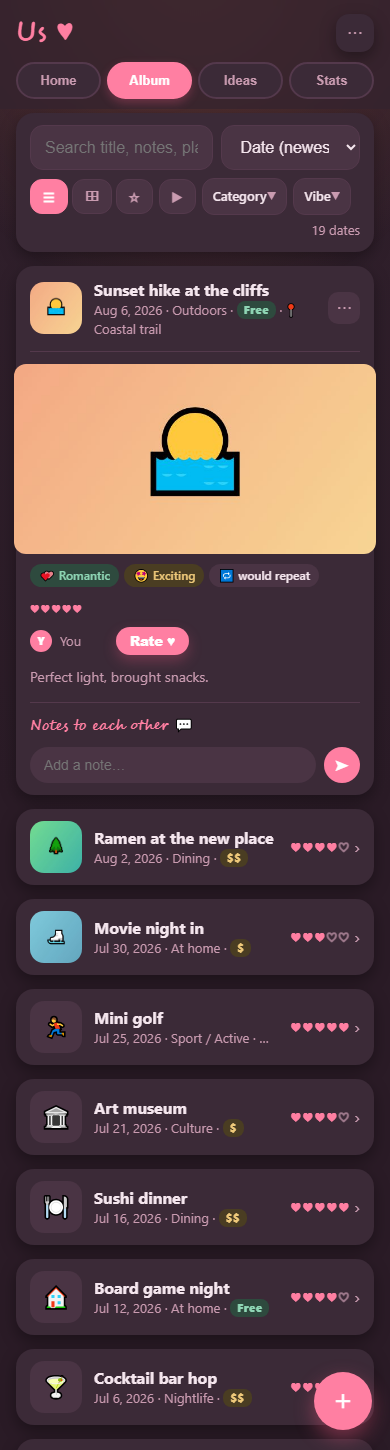
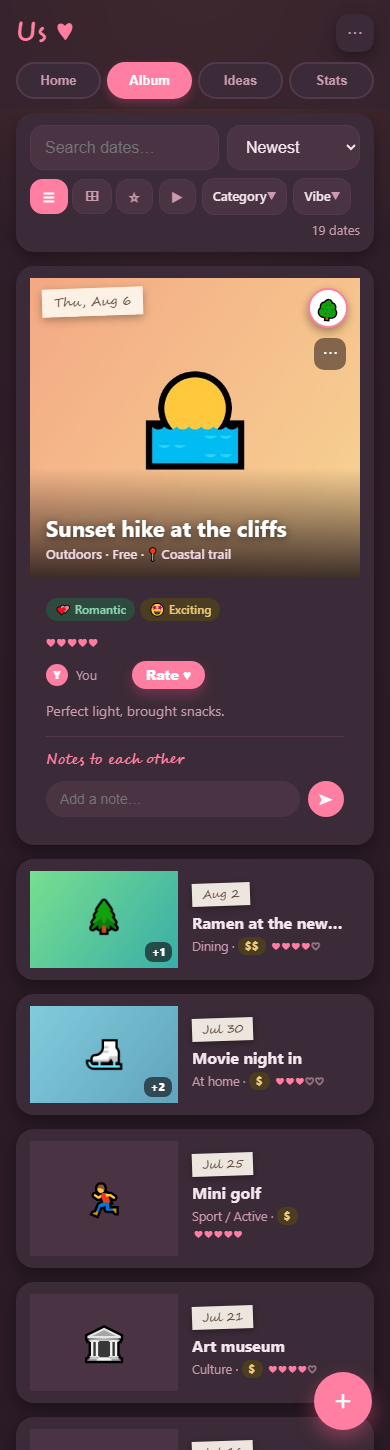
Album redesign: photo-ledge rows + hero/film-strip expanded view
Collapsed rows: 148px edge-bleed photo slab, tape date sticker, inline
hearts (replaces 52px thumb + score column + chevron). Expanded: 300px
full-bleed hero with overlaid title/meta/kebab, 72px film strip swaps
the hero, tap hero for lightbox, tap title to collapse. Dropped the
derived would-repeat chip. Mock: design/album-cards.html (taste-critic
revised); smoke assertions updated to guard the new structure.

diff --git a/design/album-cards.html b/design/album-cards.html
@@ -1,0 +1,172 @@
+<!DOCTYPE html>
+<html>
+<head>
+<meta charset="utf-8"/>
+<title>Album redesign — photo-ledge rows + hero/film-strip expanded (realistic)</title>
+<style>
+:root {
+  --bg: #2a1b26; --bg-soft: #33222e; --card: #3b2a37; --card-2: #4a3444;
+  --line: #54394c; --text: #f5e6ee; --muted: #c99bb0;
+  --accent: #ff7fa2; --accent-2: #ff9fba;
+  --good: #7ed3ab; --warn: #eec97a; --bad: #f08a8a;
+  --mint-bg: #2e4a3e; --mint-fg: #8fd6b5; --butter-bg: #4a3d22; --butter-fg: #eec97a;
+  --radius: 18px; --shadow: 0 6px 16px rgba(0,0,0,.35);
+  --cursive: "Segoe Script", "Comic Sans MS", cursive;
+}
+* { box-sizing: border-box; }
+body {
+  margin: 0; padding: 24px; background: #1a1017; color: var(--text);
+  font: 16px/1.45 -apple-system, BlinkMacSystemFont, "Segoe UI", Roboto, sans-serif;
+  display: flex; gap: 28px; flex-wrap: wrap; align-items: flex-start;
+}
+.frame { width: 390px; flex: none; }
+.frame-label { font: 700 15px var(--cursive); color: var(--accent); margin: 0 0 10px 4px; }
+.phone { background: radial-gradient(120% 60% at 50% 0%, var(--bg-soft), var(--bg)); border-radius: 28px; padding: 16px; border: 1px solid #000; }
+.card { background: var(--card); border-radius: var(--radius); padding: 16px; box-shadow: var(--shadow); margin-bottom: 14px; position: relative; }
+.hearts { color: var(--accent); font-weight: 800; letter-spacing: 1px; white-space: nowrap; }
+.hearts .off { color: var(--muted); opacity: .7; }
+.chev { color: var(--muted); font-size: 18px; flex: none; }
+.tier-pill { display: inline-block; background: var(--butter-bg); color: var(--butter-fg); font-size: 11px; font-weight: 800; padding: 1px 7px; border-radius: 8px; vertical-align: 1px; letter-spacing: .5px; }
+.tier-pill.free { background: var(--mint-bg); color: var(--mint-fg); }
+img.cover { position: absolute; inset: 0; width: 100%; height: 100%; object-fit: cover; }
+
+/* ---- search/filter bar (context, as shipped) ---- */
+.hist-bar { padding: 10px 12px; display: flex; gap: 8px; align-items: center; }
+.h-search { flex: 1; background: var(--card-2); border: 1px solid var(--line); border-radius: 12px; padding: 8px 12px; color: var(--muted); font-size: 14px; }
+.seg { background: var(--card-2); border: 1px solid var(--line); border-radius: 10px; color: var(--muted); font-size: 14px; padding: 6px 10px; }
+.seg.on { background: var(--accent); color: #fff; border-color: var(--accent); }
+
+/* ---- Option A: photo-ledge rows ---- */
+.ledge { padding: 0; overflow: hidden; display: flex; align-items: stretch; min-height: 96px; cursor: pointer; }
+.ledge .shot { width: 148px; flex: none; position: relative; overflow: hidden; }
+.ledge .shot .count { position: absolute; right: 6px; bottom: 6px; background: rgba(15,6,12,.6); color: #fff; font-size: 11px; font-weight: 800; padding: 2px 7px; border-radius: 8px; z-index: 2; }
+.ledge .shot .cat-emoji { display: grid; place-items: center; height: 100%; font-size: 34px; background: var(--card-2); }
+.ledge .body { flex: 1; min-width: 0; padding: 12px 16px 12px 14px; display: flex; flex-direction: column; justify-content: center; gap: 3px; }
+.ledge .tape { align-self: flex-start; background: rgba(253,246,238,.92); padding: 2px 10px; transform: rotate(-2deg); font: 400 11.5px var(--cursive); color: #5a4636; box-shadow: 0 2px 6px rgba(0,0,0,.3); margin-bottom: 2px; }
+.ledge h4 { margin: 0; font-size: 16px; white-space: nowrap; overflow: hidden; text-overflow: ellipsis; }
+.ledge .sub { color: var(--muted); font-size: 12.5px; }
+.ledge .sub .hearts { font-size: 13px; margin-left: 2px; }
+
+/* ---- Expanded: tall hero + film strip ---- */
+.xcard { padding: 0; overflow: hidden; }
+.xhero { height: 300px; position: relative; overflow: hidden; }
+.xhero::after { content: ""; position: absolute; left: 0; right: 0; bottom: 0; height: 110px; background: linear-gradient(180deg, transparent, rgba(15,6,12,.8)); }
+.xhero .tape { position: absolute; top: 12px; left: 14px; transform: rotate(-2deg); background: rgba(253,246,238,.92); padding: 4px 12px; box-shadow: 0 3px 8px rgba(0,0,0,.3); font: 400 12.5px var(--cursive); color: #5a4636; z-index: 2; }
+.xhero .cat { position: absolute; top: 12px; right: 14px; transform: rotate(6deg); background: #fff; width: 40px; height: 40px; border-radius: 50%; display: grid; place-items: center; font-size: 20px; border: 2.5px solid var(--accent); box-shadow: 0 4px 10px rgba(0,0,0,.35); z-index: 2; }
+.xhero .kebab { position: absolute; top: 60px; right: 14px; z-index: 2; background: rgba(15,6,12,.5); color: #fff; border: none; width: 32px; height: 32px; border-radius: 50%; font-size: 16px; }
+.xhero .title { position: absolute; left: 16px; right: 16px; bottom: 14px; z-index: 2; }
+.xhero .title h3 { margin: 0; color: #fff; font-size: 22px; text-shadow: 0 2px 8px rgba(0,0,0,.6); }
+.xhero .title .sub { color: #f0d9e2; font-size: 13px; font-weight: 600; }
+.strip { display: flex; gap: 6px; padding: 8px 0 4px 12px; overflow: hidden; }
+.strip .fr { width: 72px; height: 72px; border-radius: 10px; flex: none; position: relative; overflow: hidden; }
+.strip .fr.on { outline: 2.5px solid var(--accent); outline-offset: -2.5px; }
+.strip .fr .more { position: absolute; inset: 0; display: grid; place-items: center; background: rgba(0,0,0,.5); color: #fff; font-size: 14px; font-weight: 800; border-radius: 10px; z-index: 2; }
+.xbody { padding: 10px 16px 16px; }
+.chip-flow { display: flex; flex-wrap: wrap; gap: 5px; margin-top: 4px; }
+.chip { padding: 3px 9px; border-radius: 999px; font-size: 12px; background: var(--card-2); color: var(--text); }
+.rate-meta { display: flex; flex-direction: column; gap: 8px; margin-top: 12px; }
+.rate-line { display: flex; align-items: center; gap: 8px; font-size: 14px; }
+.who { width: 24px; height: 24px; border-radius: 50%; display: grid; place-items: center; font-size: 12px; font-weight: 800; flex: none; }
+.who.me { background: var(--accent); color: #fff; }
+.who.them { background: var(--card-2); color: var(--muted); }
+.notes { color: var(--muted); font-size: 14px; margin: 12px 0 0; }
+.comments h5 { margin: 14px 0 8px; font-size: 13px; color: var(--muted); }
+.cmt { display: flex; gap: 8px; margin-bottom: 8px; }
+.cmt .bubble { background: var(--card-2); border-radius: 12px; padding: 7px 11px; font-size: 13.5px; }
+.cmt .when { font-size: 11px; color: var(--muted); margin: 2px 0 0 4px; }
+</style>
+</head>
+<body>
+
+<!-- FRAME 1: Album list, option A with real photos -->
+<div class="frame">
+  <p class="frame-label">Album — photo-ledge rows</p>
+  <div class="phone">
+    <div class="card hist-bar">
+      <div class="h-search">Search dates…</div>
+      <div class="seg on">☰</div><div class="seg">⊞</div><div class="seg">☆</div>
+    </div>
+    <div class="card ledge">
+      <div class="shot"><img class="cover" src="https://picsum.photos/seed/picnic7/320/240" alt=""/><span class="count">+3</span></div>
+      <div class="body">
+        <span class="tape">Jul 18</span>
+        <h4>Sunset picnic at the park</h4>
+        <div class="sub">Outdoors · <span class="tier-pill">₪₪</span> <span class="hearts">♥♥♥♥<span class="off">♥</span></span></div>
+      </div>
+    </div>
+    <div class="card ledge">
+      <div class="shot"><img class="cover" src="https://picsum.photos/seed/museum12/320/240" alt=""/></div>
+      <div class="body">
+        <span class="tape">Jul 5</span>
+        <h4>Night museum tour</h4>
+        <div class="sub">Culture · <span class="tier-pill">₪₪₪</span> <span class="hearts">♥♥♥♥♥</span></div>
+      </div>
+    </div>
+    <div class="card ledge">
+      <div class="shot"><img class="cover" src="https://picsum.photos/seed/forest3/320/240" alt=""/><span class="count">+5</span></div>
+      <div class="body">
+        <span class="tape">Jun 27</span>
+        <h4>Forest trail + coffee</h4>
+        <div class="sub">Active · <span class="tier-pill free">FREE</span> <span class="hearts">♥♥♥<span class="off">♥♥</span></span></div>
+      </div>
+    </div>
+    <div class="card ledge">
+      <div class="shot"><div class="cat-emoji">🍜</div></div>
+      <div class="body">
+        <span class="tape">Jun 14</span>
+        <h4>Ramen place downtown</h4>
+        <div class="sub">Food · <span class="tier-pill">₪₪</span> <span class="hearts">♥♥♥♥<span class="off">♥</span></span></div>
+      </div>
+    </div>
+    <div class="card ledge">
+      <div class="shot"><img class="cover" src="https://picsum.photos/seed/beach21/320/240" alt=""/><span class="count">+2</span></div>
+      <div class="body">
+        <span class="tape">Jun 6</span>
+        <h4>Beach morning + shakshuka</h4>
+        <div class="sub">Outdoors · <span class="tier-pill">₪</span> <span class="hearts">♥♥♥♥♥</span></div>
+      </div>
+    </div>
+  </div>
+</div>
+
+<!-- FRAME 2: expanded entry -->
+<div class="frame">
+  <p class="frame-label">Expanded — hero + film strip</p>
+  <div class="phone">
+    <div class="card xcard">
+      <div class="xhero">
+        <img class="cover" src="https://picsum.photos/seed/picnic7/780/600" alt=""/>
+        <span class="tape">Fri, Jul 18</span>
+        <span class="cat">🧺</span>
+        <button class="kebab">⋯</button>
+        <div class="title">
+          <h3>Sunset picnic at the park</h3>
+          <div class="sub">Outdoors · ₪₪ · 2h 30m · 📍 Gan Sacher</div>
+        </div>
+      </div>
+      <div class="strip">
+        <div class="fr on"><img class="cover" src="https://picsum.photos/seed/picnic7/160/160" alt=""/></div>
+        <div class="fr"><img class="cover" src="https://picsum.photos/seed/blanket4/160/160" alt=""/></div>
+        <div class="fr"><img class="cover" src="https://picsum.photos/seed/sunset9/160/160" alt=""/></div>
+        <div class="fr"><img class="cover" src="https://picsum.photos/seed/wine2/160/160" alt=""/></div>
+        <div class="fr"><img class="cover" src="https://picsum.photos/seed/city5/160/160" alt=""/></div>
+        <div class="fr"><img class="cover" src="https://picsum.photos/seed/cafe8/160/160" alt=""/></div>
+      </div>
+      <div class="xbody">
+        <div class="chip-flow"><span class="chip">😌 chill</span></div>
+        <div class="rate-meta">
+          <div class="rate-line"><span class="who me">T</span><span>You</span><span class="hearts">♥♥♥♥<span class="off">♥</span></span></div>
+          <div class="rate-line"><span class="who them">N</span><span>Noa</span><span class="hearts">♥♥♥♥♥</span></div>
+        </div>
+        <p class="notes">Golden hour was unreal. The hummus place next door is a keeper.</p>
+        <div class="comments">
+          <h5>Notes to each other</h5>
+          <div class="cmt"><span class="who them">N</span><div><div class="bubble">Next time we bring the good blanket 🙃</div><div class="when">2d ago</div></div></div>
+        </div>
+      </div>
+    </div>
+  </div>
+</div>
+
+</body>
+</html>

diff --git a/js/ui.js b/js/ui.js
@@ -1247,36 +1247,48 @@ async function renderHistoryList() {
   }
   host.innerHTML = list.map(e => {
     const isOpen = hist.expanded === e.id;
+    if (isOpen) return `<div class="card tight hist-entry open">${histDetail(e)}</div>`;
+    const pid = e.photos?.[0] || "";
+    const extra = (e.photos?.length || 0) - 1;
     return `
-    <div class="card tight hist-entry ${isOpen ? "open" : ""}">
-      <div class="entry hist-row" data-toggle="${escAttr(e.id)}">
-        <div class="thumb" data-thumb="${escAttr(e.photos?.[0] || "")}">${catEmoji(e.category)}</div>
-        <div class="meta">
-          <h4>${escHtml(e.title)}</h4>
-          <div class="sub">${fmtDate(e.date)} · ${catLabel(e.category)}${tierPill(e) ? " · " + tierPill(e) : ""}${isOpen && e.location ? " · 📍 " + escHtml(e.location) : ""}${e.durationMin ? " · " + fmtDuration(e.durationMin) : ""}</div>
+    <div class="card tight hist-entry">
+      <div class="hist-ledge" data-toggle="${escAttr(e.id)}">
+        <div class="shot" data-shot="${escAttr(pid)}">
+          ${pid ? "" : `<div class="cat-emoji">${catEmoji(e.category)}</div>`}
+          ${extra > 0 ? `<span class="count">+${extra}</span>` : ""}
         </div>
-        ${isOpen
-          ? `<button class="kebab" data-kebab="${escAttr(e.id)}">⋯</button>`
-          : `<div class="score">${heartsHtml(e.enjoyment)}</div><span class="chev">›</span>`}
+        <div class="body">
+          <span class="tape-sm">${fmtDateShort(e.date)}</span>
+          <h4>${escHtml(e.title)}</h4>
+          <div class="sub">${catLabel(e.category)}${tierPill(e) ? " · " + tierPill(e) : ""} ${heartsHtml(e.enjoyment)}</div>
+        </div>
       </div>
-      ${isOpen ? histDetail(e) : ""}
     </div>`;
   }).join("");
 
-  // wire expand/collapse (ignore taps inside the open detail)
-  host.querySelectorAll("[data-toggle]").forEach(row => row.addEventListener("click", e => {
-    if (e.target.closest(".kebab")) return;
-    hist.expanded = hist.expanded === row.dataset.toggle ? null : row.dataset.toggle;
+  // wire expand (collapse happens by tapping the expanded hero's title block)
+  host.querySelectorAll("[data-toggle]").forEach(row => row.addEventListener("click", () => {
+    hist.expanded = row.dataset.toggle;
     renderHistoryList();
   }));
   wireHistDetail(host);
-  // load collapsed-row thumbnails
-  host.querySelectorAll(".hist-row [data-thumb]").forEach(async el => {
-    const id = el.dataset.thumb;
+  // load collapsed-row photo slabs
+  host.querySelectorAll(".hist-ledge .shot[data-shot]").forEach(async el => {
+    const id = el.dataset.shot;
     if (!id) return;
     const url = await photoURL(id);
-    if (url) el.innerHTML = `<img src="${url}" alt=""/>`;
+    if (url) el.insertAdjacentHTML("afterbegin", `<img class="cover" src="${url}" alt=""/>`);
   });
+}
+
+// short "Jul 18" (collapsed tape) / weekday "Fri, Jul 18" (expanded hero tape)
+function fmtDateShort(iso) {
+  if (!iso) return "";
+  return new Date(iso + "T00:00:00").toLocaleDateString(undefined, { month: "short", day: "numeric" });
+}
+function fmtDateWeekday(iso) {
+  if (!iso) return "";
+  return new Date(iso + "T00:00:00").toLocaleDateString(undefined, { weekday: "short", month: "short", day: "numeric" });
 }
 
 function histDetail(e) {
@@ -1294,13 +1306,12 @@ function histDetail(e) {
       <span class="big-stars hidden" data-rate="${escAttr(e.id)}">${[1, 2, 3, 4, 5].map(n => `<span class="rk off" data-k="${n}">♥</span>`).join("")}</span>
     </div>`;
 
-  // only mood chips + would-repeat flow below the photo; effort/location moved elsewhere
+  // only mood chips below the photo; wouldRepeat/effort/location moved elsewhere
   const chips = [];
   if (Array.isArray(e.mood)) e.mood.forEach((k, i) => {
     const m = MOOD_OPTIONS.find(o => o.key === k);
     if (m) chips.push(`<span class="chip ${i % 2 ? "butter" : "mint"}">${m.emoji} ${escHtml(m.label)}</span>`);
   });
-  if (e.wouldRepeat) chips.push(`<span class="chip">${e.wouldRepeat === "yes" ? "🔁 would repeat" : e.wouldRepeat === "maybe" ? "🤔 maybe again" : "🚫 not again"}</span>`);
 
   const comments = (e.comments || []).map(c => {
     const isMine = c.author === myKey();
@@ -1311,14 +1322,34 @@ function histDetail(e) {
     </div>`;
   }).join("");
 
+  const photos = e.photos || [];
+  const sub = [catLabel(e.category), costBadge(e), e.durationMin ? fmtDuration(e.durationMin) : "", e.location ? "📍 " + escHtml(e.location) : ""]
+    .filter(Boolean).join(" · ");
+  const hero = `
+    <div class="hist-hero${photos.length ? "" : " empty"}" data-hero data-photos="${escAttr(photos.join(","))}" data-active="0" data-title="${escAttr(e.title)}">
+      ${photos.length ? `<img class="hist-hero-img" data-hero-img src="" alt=""/>` : `<div class="hist-hero-emoji">${catEmoji(e.category)}</div>`}
+      <span class="stk tape">${fmtDateWeekday(e.date)}</span>
+      <span class="stk cat">${catEmoji(e.category)}</span>
+      <button class="kebab hist-hero-kebab" data-kebab="${escAttr(e.id)}">⋯</button>
+      <div class="hist-hero-title" data-collapse="${escAttr(e.id)}">
+        <h3>${escHtml(e.title)}</h3>
+        ${sub ? `<div class="sub">${sub}</div>` : ""}
+      </div>
+    </div>`;
+  const strip = photos.length > 1 ? `
+    <div class="hist-strip" data-strip>
+      ${photos.map((pid, i) => `<div class="fr ${i === 0 ? "on" : ""}" data-frame="${i}"><img data-strip-img="${escAttr(pid)}" src="" alt=""/></div>`).join("")}
+    </div>` : "";
+
   return `
-  <div class="hist-detail">
-    <div class="hero-photo"><div class="hist-photos mosaic-slot" data-hist-photos="${escAttr((e.photos || []).join(","))}" data-cat="${escAttr(e.category)}"></div></div>
+  ${hero}
+  ${strip}
+  <div class="hist-xbody">
     ${chips.length ? `<div class="chip-flow">${chips.join("")}</div>` : ""}
     <div class="rate-meta">${rateLines}${rateInput}</div>
     ${e.notes ? `<p class="notes">${escHtml(e.notes)}</p>` : ""}
     <div class="comments">
-      <h5>Notes to each other 💬</h5>
+      <h5>Notes to each other</h5>
       ${comments}
       <div class="cmt-input">
         <input placeholder="Add a note…" data-cmt="${escAttr(e.id)}"/><button data-cmt-send="${escAttr(e.id)}">➤</button>
@@ -1382,14 +1413,43 @@ function wireHistDetail(host) {
     host.querySelector(`[data-cmt="${id}"]`)?.focus();
   }));
 
-  // load detail photo mosaic (tap any tile → lightbox with ALL photos)
-  host.querySelectorAll("[data-hist-photos]").forEach(async el => {
-    const ids = el.dataset.histPhotos.split(",").filter(Boolean);
-    await fillMosaic(el, ids, el.dataset.cat, true);
-    if (!ids.length) return;
-    const urls = (await Promise.all(ids.map(id => photoURL(id)))).filter(Boolean);
-    el.querySelectorAll(".ph").forEach((tile, i) =>
-      tile.addEventListener("click", ev => { ev.stopPropagation(); openLightbox(urls.map(url => ({ url })), i); }));
+  // hero photo: load first photo, tap collapses via the title block, else opens the lightbox
+  host.querySelectorAll("[data-hero]").forEach(hero => {
+    const ids = hero.dataset.photos.split(",").filter(Boolean);
+    const imgEl = hero.querySelector("[data-hero-img]");
+    if (imgEl && ids.length) photoURL(ids[0]).then(url => { if (url) imgEl.src = url; });
+
+    hero.querySelector("[data-collapse]").addEventListener("click", ev => {
+      ev.stopPropagation();
+      hist.expanded = null;
+      renderHistoryList();
+    });
+    hero.addEventListener("click", async ev => {
+      if (ev.target.closest("[data-collapse]") || ev.target.closest(".kebab") || !ids.length) return;
+      const urls = (await Promise.all(ids.map(id => photoURL(id)))).filter(Boolean);
+      openLightbox(urls.map(url => ({ url, caption: hero.dataset.title })), Number(hero.dataset.active) || 0);
+    });
+  });
+
+  // film strip: load all thumbs, tapping one swaps the hero image (no re-render)
+  host.querySelectorAll("[data-strip]").forEach(strip => {
+    const hero = strip.previousElementSibling;
+    const heroImg = hero.querySelector("[data-hero-img]");
+    const frames = [...strip.querySelectorAll(".fr")];
+    frames.forEach(fr => {
+      const pid = fr.querySelector("img").dataset.stripImg;
+      photoURL(pid).then(url => { if (url) fr.querySelector("img").src = url; });
+    });
+    strip.addEventListener("click", async ev => {
+      const fr = ev.target.closest(".fr"); if (!fr) return;
+      ev.stopPropagation();
+      const i = Number(fr.dataset.frame);
+      const ids = hero.dataset.photos.split(",").filter(Boolean);
+      const url = await photoURL(ids[i]);
+      if (url) heroImg.src = url;
+      hero.dataset.active = i;
+      frames.forEach(f => f.classList.toggle("on", f === fr));
+    });
   });
 }
 

diff --git a/css/styles.css b/css/styles.css
@@ -413,10 +413,36 @@ input:focus, textarea:focus, select:focus { outline: 2px solid var(--accent); bo
 .menu-pop div:active { background: var(--line); }
 .menu-pop .danger { color: var(--bad); }
 
-/* ---- history detail: photo hero + chip flow + ratings ---- */
-.hero-photo { margin: 0 -16px; overflow: hidden; height: 190px; }
-.hero-photo .mosaic, .hero-photo .detail-mosaic, .hero-photo .home-banner, .hero-photo .detail-mosaic.empty { height: 190px; grid-auto-rows: 190px; margin-top: 0; }
-.hero-photo .mosaic .ph:only-child { grid-column: 1 / -1; } /* single photo fills the hero */
+/* ---- Album redesign: photo-ledge rows + hero/film-strip expanded (design/album-cards.html) ---- */
+.hist-entry { padding: 0; overflow: hidden; }
+.hist-ledge { padding: 0; display: flex; align-items: stretch; min-height: 96px; cursor: pointer; }
+.hist-ledge .shot { width: 148px; flex: none; position: relative; overflow: hidden; background: var(--card-2); }
+.hist-ledge .shot img.cover { position: absolute; inset: 0; width: 100%; height: 100%; object-fit: cover; z-index: 1; }
+.hist-ledge .shot .count { position: absolute; right: 6px; bottom: 6px; background: rgba(15,6,12,.6); color: #fff; font-size: 11px; font-weight: 800; padding: 2px 7px; border-radius: 8px; z-index: 2; }
+.hist-ledge .shot .cat-emoji { display: grid; place-items: center; height: 100%; font-size: 34px; }
+.hist-ledge .body { flex: 1; min-width: 0; padding: 12px 16px 12px 14px; display: flex; flex-direction: column; justify-content: center; gap: 3px; }
+.hist-ledge .tape-sm { align-self: flex-start; background: rgba(253,246,238,.92); padding: 2px 10px; transform: rotate(-2deg); font: 400 11.5px var(--cursive); color: #5a4636; box-shadow: 0 2px 6px rgba(0,0,0,.3); margin-bottom: 2px; }
+.hist-ledge h4 { margin: 0; font-size: 16px; white-space: nowrap; overflow: hidden; text-overflow: ellipsis; }
+.hist-ledge .sub { color: var(--muted); font-size: 12.5px; }
+.hist-ledge .sub .hearts { font-size: 13px; margin-left: 2px; }
+
+.hist-hero { height: 300px; position: relative; overflow: hidden; background: var(--card-2); cursor: zoom-in; }
+.hist-hero.empty { height: 160px; }
+.hist-hero::after { content: ""; position: absolute; left: 0; right: 0; bottom: 0; height: 110px; background: linear-gradient(180deg, transparent, rgba(15,6,12,.8)); pointer-events: none; }
+.hist-hero .hist-hero-img { position: absolute; inset: 0; width: 100%; height: 100%; object-fit: cover; }
+.hist-hero .hist-hero-emoji { position: absolute; inset: 0; display: grid; place-items: center; font-size: 40px; }
+.hist-hero .stk.tape { font: 400 12.5px var(--cursive); }
+.hist-hero .hist-hero-kebab { position: absolute; top: 60px; right: 14px; z-index: 2; background: rgba(15,6,12,.5); color: #fff; }
+.hist-hero-title { position: absolute; left: 16px; right: 16px; bottom: 14px; z-index: 2; cursor: pointer; }
+.hist-hero-title h3 { margin: 0; color: #fff; font-size: 22px; text-shadow: 0 2px 8px rgba(0,0,0,.6); }
+.hist-hero-title .sub { color: #f0d9e2; font-size: 13px; font-weight: 600; }
+.hist-strip { display: flex; gap: 6px; padding: 8px 0 4px 12px; overflow-x: auto; }
+.hist-strip .fr { width: 72px; height: 72px; border-radius: 10px; flex: none; position: relative; overflow: hidden; cursor: pointer; }
+.hist-strip .fr img { width: 100%; height: 100%; object-fit: cover; display: block; }
+.hist-strip .fr.on { outline: 2.5px solid var(--accent); outline-offset: -2.5px; }
+.hist-xbody { padding: 10px 16px 16px; }
+
+/* ---- history detail: chip flow + ratings ---- */
 .chip-flow { display: flex; flex-wrap: wrap; gap: 5px; margin-top: 10px; }
 .chip-flow .chip { padding: 3px 9px; border: none; border-radius: 999px; font-size: 12px; background: var(--card-2); color: var(--text); white-space: nowrap; }
 .rate-meta { display: flex; flex-direction: column; gap: 8px; margin-top: 12px; }

diff --git a/design/current.html b/design/current.html
@@ -74,8 +74,8 @@
     <figure><img src="shots/history-detail.png" alt="Expanded entry"/><figcaption>Entry expanded in place</figcaption></figure>
     <div class="notes"><ul>
       <li><b>Controls card</b>, collapsed to two compact rows: search + sort select on row one; icon-only List ⇄ Gallery ⇄ Wishlist toggle, ▶ Slideshow, and collapsible Category + Vibe filter chips (badges when set) on row two, with the filtered count pushed to the right.</li>
-      <li><b>Rows (unified date card, M size)</b>: thumb · title · date · category · tier pill, hearts on the right (♥ filled / ♡ muted) and a › chevron. All display ratings are hearts — stars survive only inside the rating <i>input</i> widget.</li>
-      <li>Tapping a row <b>expands it in place</b>: a <b>full-bleed photo hero</b> (190px; single photo fills it, 2+ tile into the grid, "+N" badge, tap → lightbox), one wrapping <b>chip row</b> (moods + would-repeat; location joins the header meta line as "· 📍 …"), then per-partner <b>heart ratings</b> — unrated shows a raspberry <b>"Rate ★" pill</b> that swaps into the 5-star input — notes, and a <b>"Notes to each other"</b> comment thread with input. Edit/Delete live in a ⋯ corner menu. Cost shows everywhere as one coarse <b>Free/$/$$/$$$</b> badge; Date Night entries append their logged duration ("· 1h 24m").</li>
+      <li><b>Rows (photo-ledge card)</b>: a full-height <b>148px photo slab</b> bleeding to the card's left edge (first photo; "+N" count badge when more; category emoji on card-2 when none), then a small washi-tape date sticker, title, and a sub line of category · tier pill · hearts (♥ filled / ♡ muted). No chevron — the whole row taps to expand. All display ratings are hearts — stars survive only inside the rating <i>input</i> widget.</li>
+      <li>Tapping a row <b>expands it in place</b> (design/album-cards.html): a <b>300px full-bleed photo hero</b> carrying the weekday tape sticker, category sticker circle, ⋯ menu, and the title + meta line (category · cost · duration · 📍 location) over a bottom gradient — tap the photo for the lightbox, tap the title block to collapse. Entries with 2+ photos get a <b>72px film strip</b> under the hero (scrolls off the card edge; tapping a frame swaps the hero, accent outline marks the current one). Below: mood chips (the derived would-repeat chip was dropped), per-partner <b>heart ratings</b> — unrated shows a raspberry <b>"Rate ♥" pill</b> that swaps into the 5-heart input — notes, and a <b>"Notes to each other"</b> comment thread with input. Cost shows everywhere as one coarse <b>Free/$/$$/$$$</b> badge; Date Night entries append their logged duration ("· 1h 24m").</li>
       <li>The count under the filters ("19 dates") tracks the active filter.</li>
     </ul></div>
   </div>
